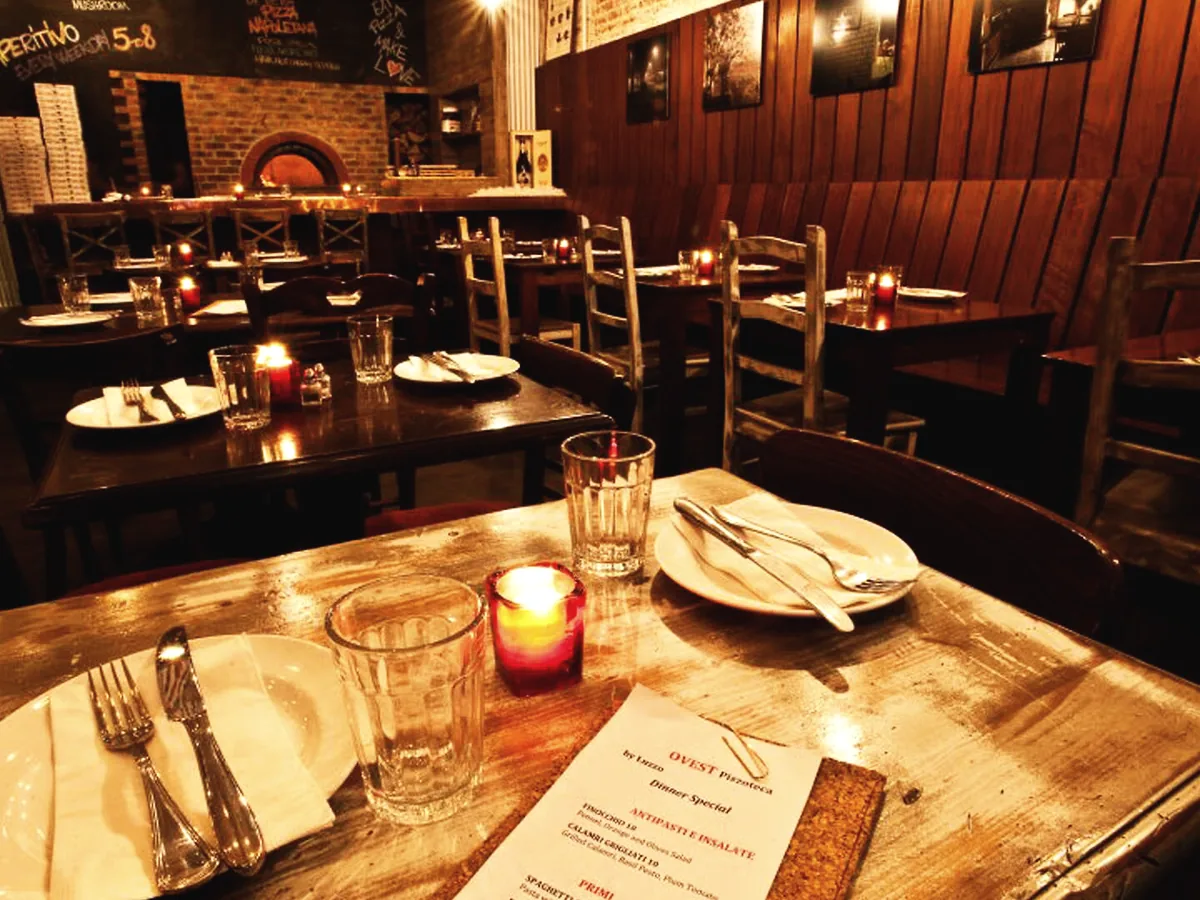
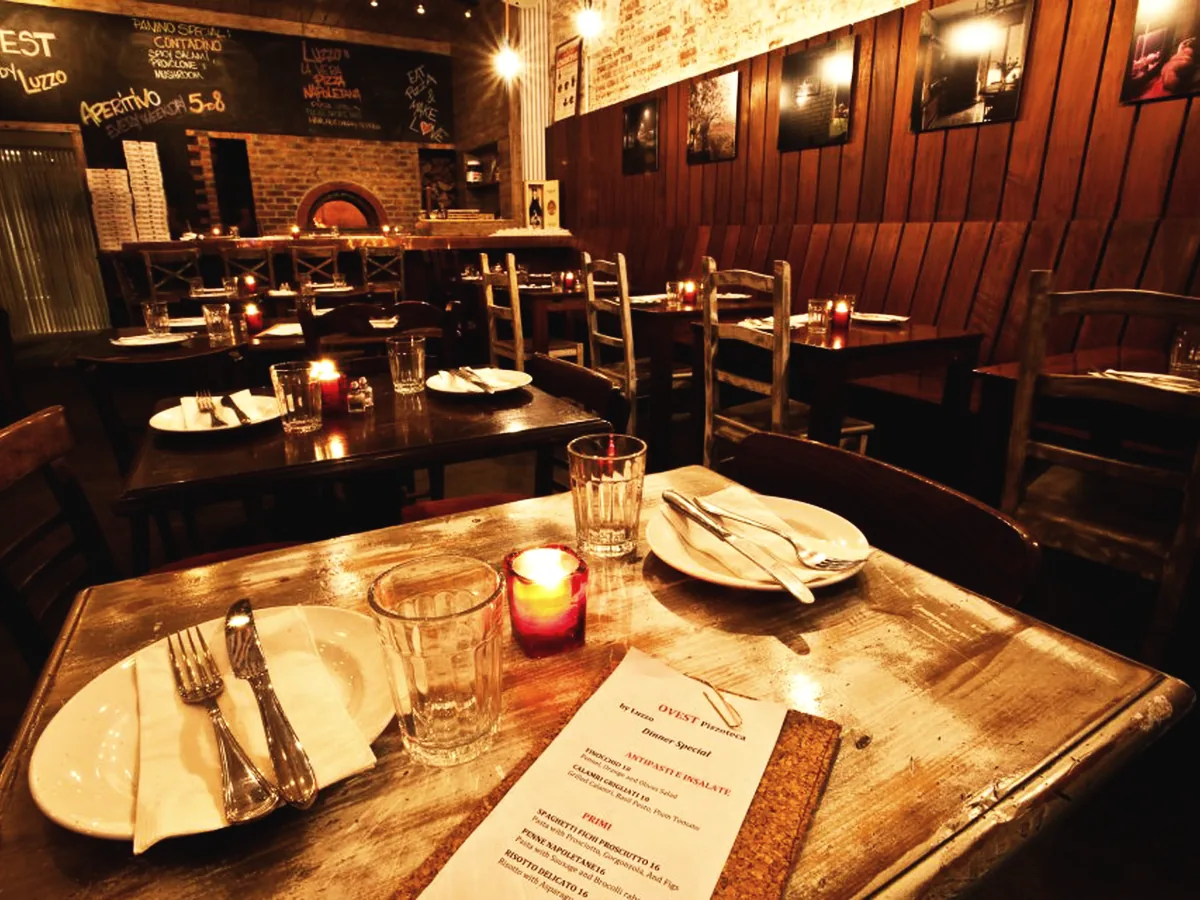
Move the view switch to the title line, align list columns to the grid
Two things from the preview comments.

The switch shared a row with the category links, which read as a clash —
it's now on the title line opposite the city name, well clear of them.

And the list's right column started 8px inside the grid's, so switching
views nudged everything sideways. The indent moved off the list and onto
each row, with the bullet drawn as a ::before inside that indent, so the
two columns now land on exactly the same x positions as the grid's — both
start their right column at 736px.

Photos also show in colour now, keeping the hover lift; the greyscale is
one line to restore and the comment says where.

All 101 New York places have a photo.

Claude-Session: https://claude.ai/code/session_01W8WgS71uDeytBGEtNrmX6d

diff --git a/components/city-guide.js b/components/city-guide.js
@@ -20,20 +20,10 @@ const CityGuide = ({ city, intro, description, socialImage, sections }) => {
         <Layout title={city} description={description} socialImage={socialImage} center>
             <div className="guide">
                 <header>
-                    <h1>{city}</h1>
-                    <p className="intro">
-                        {intro} {total} places to stay, see, eat and drink.
-                    </p>
-                    {/* Category links left, view switch pushed to the right
-                        edge of the same row. */}
-                    <div className="controls">
-                        <nav className="jump">
-                            {sections.map((section) => (
-                                <a href={`#${anchor(section.category)}`} key={section.category}>
-                                    {section.category}
-                                </a>
-                            ))}
-                        </nav>
+                    {/* The view switch sits on the title line, well clear of
+                        the category links — sharing that row read as a clash. */}
+                    <div className="title-row">
+                        <h1>{city}</h1>
                         <div className="views">
                             {['grid', 'list'].map((option) => (
                                 <button
@@ -48,6 +38,16 @@ const CityGuide = ({ city, intro, description, socialImage, sections }) => {
                             ))}
                         </div>
                     </div>
+                    <p className="intro">
+                        {intro} {total} places to stay, see, eat and drink.
+                    </p>
+                    <nav className="jump">
+                        {sections.map((section) => (
+                            <a href={`#${anchor(section.category)}`} key={section.category}>
+                                {section.category}
+                            </a>
+                        ))}
+                    </nav>
                 </header>
 
                 {sections.map((section) => (
@@ -108,6 +108,13 @@ const CityGuide = ({ city, intro, description, socialImage, sections }) => {
                     margin-bottom: 56px;
                 }
 
+                .title-row {
+                    display: flex;
+                    align-items: baseline;
+                    justify-content: space-between;
+                    gap: 24px;
+                }
+
                 h1 {
                     margin: 0 0 12px 0;
                 }
@@ -120,19 +127,11 @@ const CityGuide = ({ city, intro, description, socialImage, sections }) => {
                     max-width: 42em;
                 }
 
-                .controls {
-                    display: flex;
-                    align-items: baseline;
-                    justify-content: space-between;
-                    flex-wrap: wrap;
-                    gap: 10px 24px;
-                    margin-top: 24px;
-                }
-
                 .jump {
                     display: flex;
                     flex-wrap: wrap;
                     gap: 8px 18px;
+                    margin-top: 24px;
                 }
 
                 .jump a {
@@ -150,9 +149,6 @@ const CityGuide = ({ city, intro, description, socialImage, sections }) => {
                 .views {
                     display: flex;
                     gap: 14px;
-                    /* Keeps it at the right edge even when the category links
-                       fill the row and push it onto its own line. */
-                    margin-left: auto;
                     flex-shrink: 0;
                 }
 
@@ -184,15 +180,16 @@ const CityGuide = ({ city, intro, description, socialImage, sections }) => {
 
                 /* List view: plain bullets flowed into columns, so a long
                    category reads as one scannable block. */
+                /* No padding on the list itself, so the two columns land on
+                   exactly the same x positions as the grid's two columns —
+                   switching views doesn't shift anything. The bullet is drawn
+                   inside each row's own indent instead. */
                 .place-list {
                     column-count: 2;
                     column-gap: 32px;
                     margin: 0;
-                    /* Bullets hang outside so the name and the meta line
-                       beneath it share one left edge. The right column still
-                       ends flush with the right edge of the page. */
-                    padding-left: 17px;
-                    list-style-position: outside;
+                    padding-left: 0;
+                    list-style: none;
                 }
 
                 @media (max-width: 560px) {
@@ -205,6 +202,15 @@ const CityGuide = ({ city, intro, description, socialImage, sections }) => {
                     break-inside: avoid;
                     margin-bottom: 7px;
                     line-height: 1.45;
+                    position: relative;
+                    padding-left: 17px;
+                }
+
+                .place-list li::before {
+                    content: '•';
+                    position: absolute;
+                    left: 2px;
+                    top: 0;
                     color: #bbb;
                 }
 
@@ -265,15 +271,14 @@ const CityGuide = ({ city, intro, description, socialImage, sections }) => {
                     width: 100%;
                     height: 100%;
                     object-fit: cover;
-                    /* The files keep their colour; the grid is desaturated here
-                       so hovering a card brings its real colour back. */
-                    filter: grayscale(1);
-                    transition: transform 0.5s ease, filter 0.5s ease;
+                    transition: transform 0.5s ease;
                 }
 
+                /* The photos show in colour; hovering keeps the lift. To get
+                   the desaturated grid back, add filter: grayscale(1) to the
+                   rule above and filter: grayscale(0) to this one. */
                 .item-card:hover :global(.item-image) {
                     transform: scale(1.03);
-                    filter: grayscale(0);
                 }
 
                 .item-info {

diff --git a/pages/travel/index.js b/pages/travel/index.js
@@ -579,13 +579,12 @@ const TravelPage = () => {
                     width: 100%;
                     height: 100%;
                     object-fit: cover;
-                    filter: grayscale(1);
-                    transition: transform 0.5s ease, filter 0.5s ease;
+                    transition: transform 0.5s ease;
                 }
 
+                /* In colour, matching the guide pages; hover keeps the lift. */
                 .guides-grid :global(.guide-card:hover .guide-image) {
                     transform: scale(1.03);
-                    filter: grayscale(0);
                 }
 
                 .guide-info {

diff --git a/data/travel-guides/new-york.js b/data/travel-guides/new-york.js
@@ -397,6 +397,13 @@ const newYork = [
         image: '/images/travel/new-york/peter-luger.webp',
       },
       {
+        name: 'KazuNori',
+        meta: 'Manhattan · Hand rolls',
+        description: 'One thing, done perfectly, at a counter. Order the four-hand-roll set.',
+        link: 'https://www.handrollbar.com/',
+        image: '/images/travel/new-york/kazunori.webp',
+      },
+      {
         name: 'Olives',
         meta: 'SoHo · Sandwiches',
         description: '191 Prince Street. Grab a sandwich and eat it somewhere else.',
